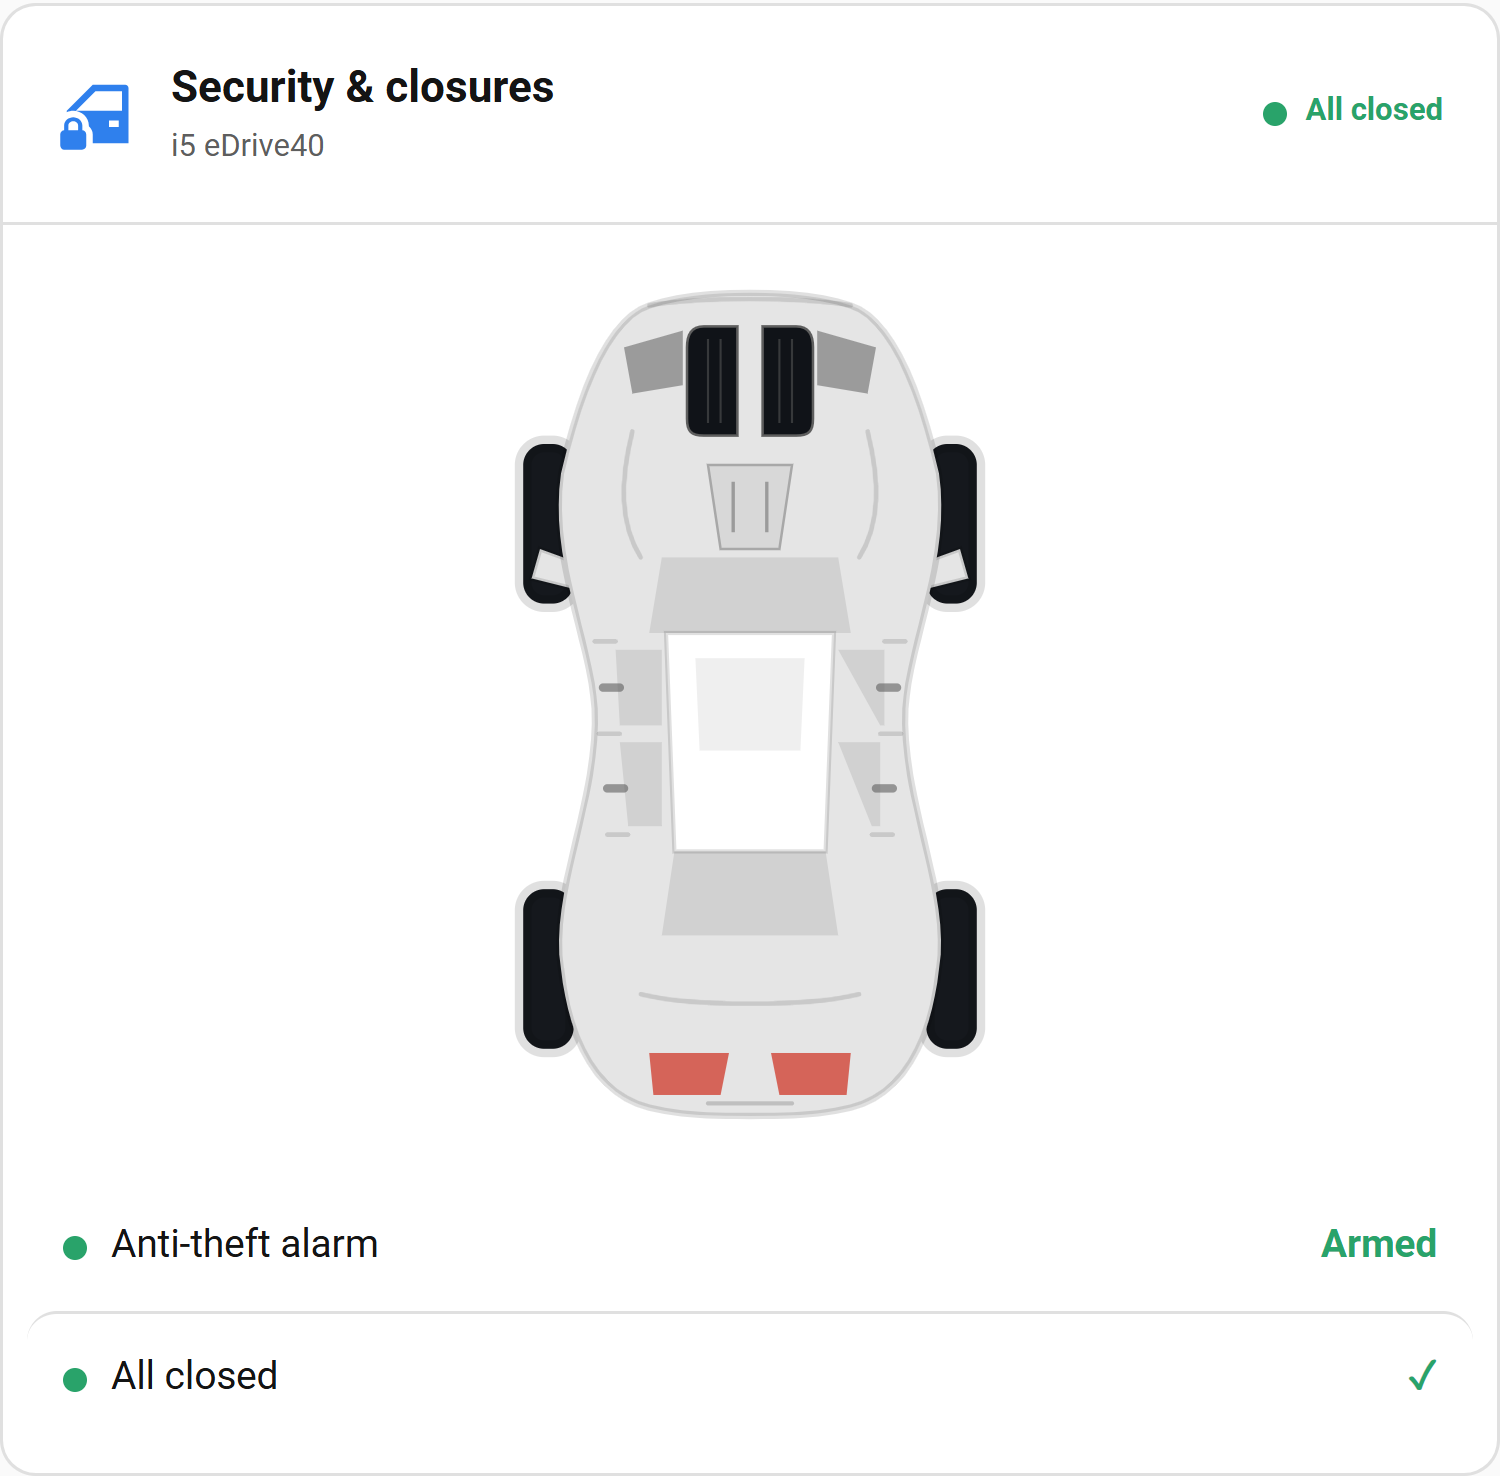
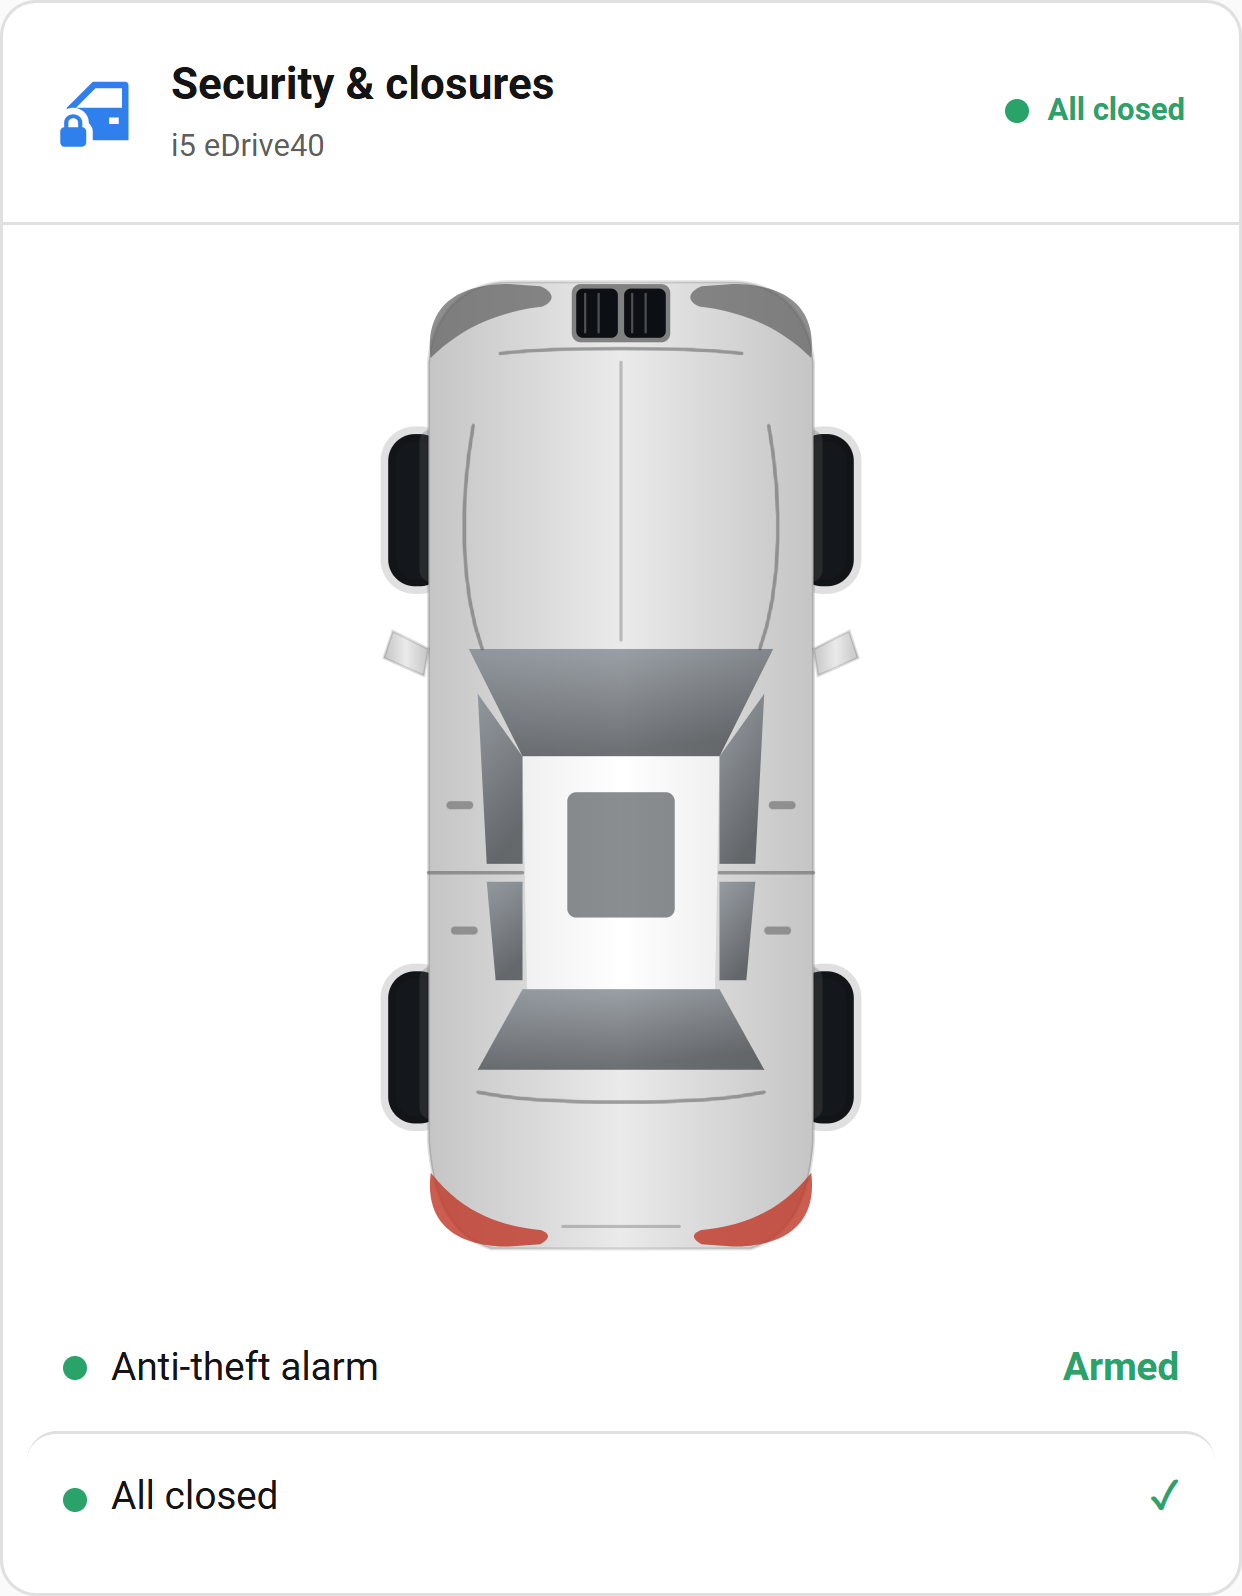
Refresh card screenshots from the live v0.8.0 dashboard
Recaptured the main, security & closures, and tyre-pressure cards with the
current card design; updated the tyre alt text to match the new state.

diff --git a/README.md b/README.md
@@ -29,7 +29,7 @@ vehicle image so a usable dashboard exists out of the box.
 <p align="center">
   <img src="https://raw.githubusercontent.com/JustChr/BavarianData/main/screenshots/wattfried-security.png" alt="Security &amp; closures card with a top-down car diagram, anti-theft alarm armed and all closures closed" width="300" />
   &nbsp;&nbsp;
-  <img src="https://raw.githubusercontent.com/JustChr/BavarianData/main/screenshots/wattfried-tires.png" alt="Tyre pressure card showing all four tyres at 290 kPa on a top-down car diagram" width="300" />
+  <img src="https://raw.githubusercontent.com/JustChr/BavarianData/main/screenshots/wattfried-tires.png" alt="Tyre pressure card flagging slightly high pressures on all four tyres on a top-down car diagram" width="300" />
 </p>
 
 > **Status — experimental.** This is a spare-time project, verified against a

diff --git a/info.md b/info.md
@@ -33,7 +33,7 @@ with it, so a usable dashboard exists out of the box.
 </p>
 <p align="center">
   <img src="https://raw.githubusercontent.com/JustChr/BavarianData/main/screenshots/wattfried-security.png" alt="Security &amp; closures card with a top-down car diagram, anti-theft alarm armed and all closures closed" width="300" />
-  <img src="https://raw.githubusercontent.com/JustChr/BavarianData/main/screenshots/wattfried-tires.png" alt="Tyre pressure card showing all four tyres at 290 kPa on a top-down car diagram" width="300" />
+  <img src="https://raw.githubusercontent.com/JustChr/BavarianData/main/screenshots/wattfried-tires.png" alt="Tyre pressure card flagging slightly high pressures on all four tyres on a top-down car diagram" width="300" />
 </p>
 
 See the [README](https://github.com/JustChr/BavarianData) for the full BMW